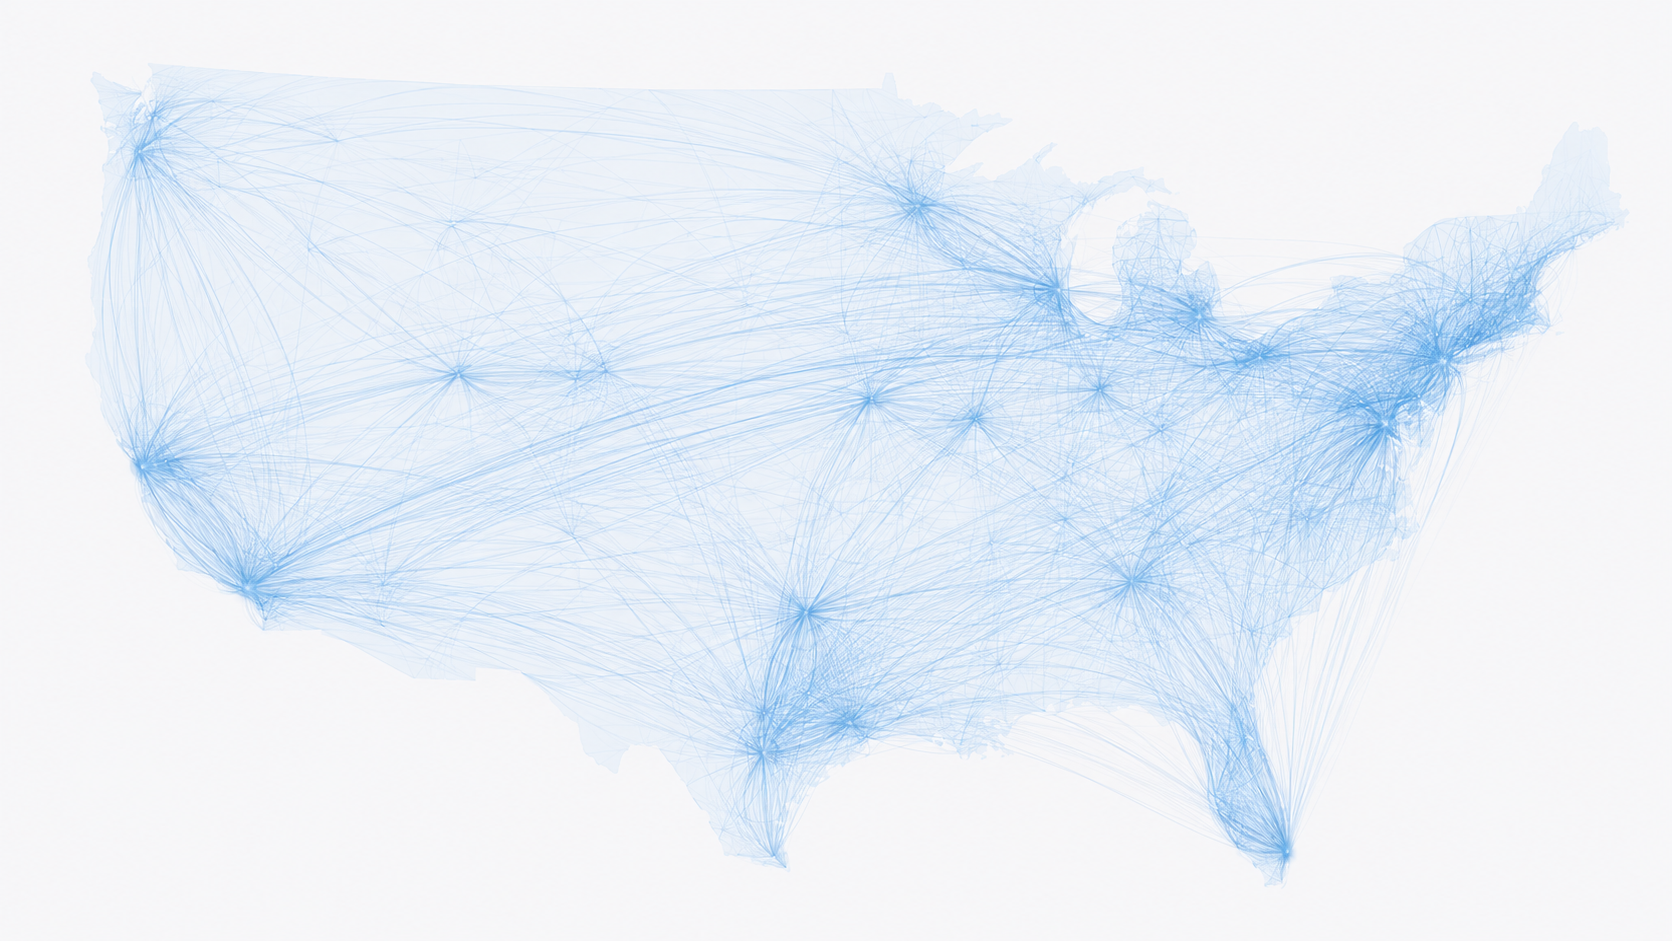
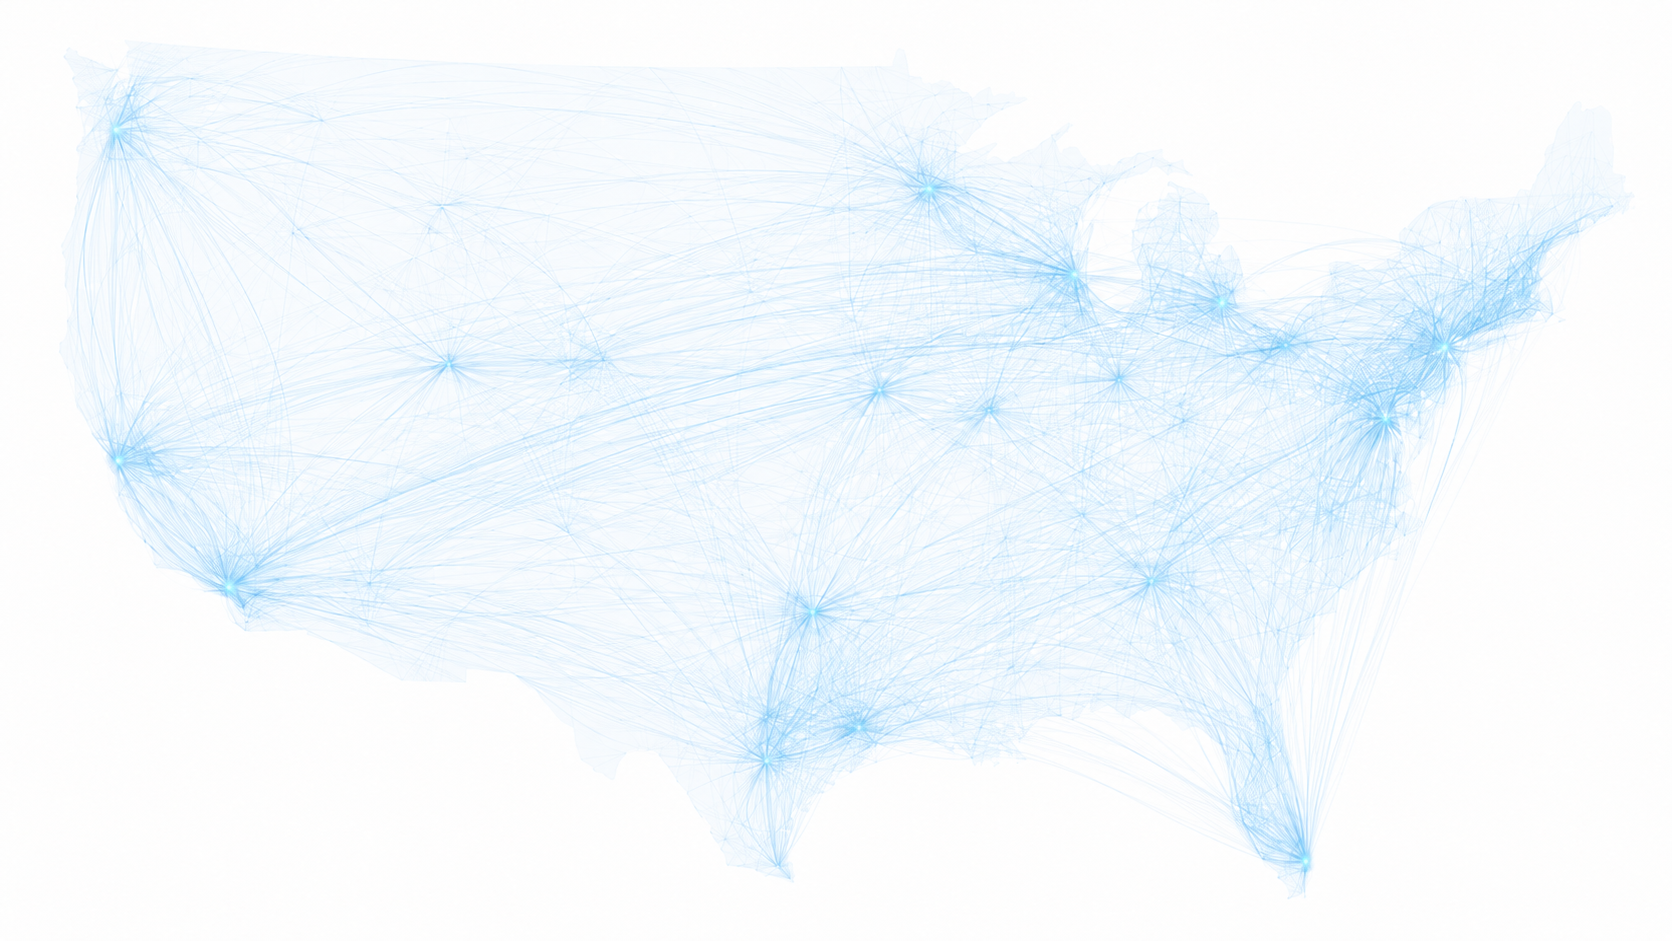
Update figures

diff --git a/_includes/social-share.html b/_includes/social-share.html
@@ -1,13 +1,1 @@
-{% include base_path %}
-
-<section class="page__share">
-  {% if site.data.ui-text[site.locale].share_on_label %}
-    <h4 class="page__share-title">{{ site.data.ui-text[site.locale].share_on_label | default: "Share on" }}</h4>
-  {% endif %}
-
-  <a href="https://twitter.com/intent/tweet?text={{ base_path }}{{ page.url }}" class="btn btn--twitter" title="{{ site.data.ui-text[site.locale].share_on_label | default: 'Share on' }} Twitter"><i class="fab fa-twitter" aria-hidden="true"></i><span> Twitter</span></a>
-
-  <a href="https://www.facebook.com/sharer/sharer.php?u={{ base_path }}{{ page.url }}" class="btn btn--facebook" title="{{ site.data.ui-text[site.locale].share_on_label | default: 'Share on' }} Facebook"><i class="fab fa-facebook" aria-hidden="true"></i><span> Facebook</span></a>
-
-  <a href="https://www.linkedin.com/shareArticle?mini=true&url={{ base_path }}{{ page.url }}" class="btn btn--linkedin" title="{{ site.data.ui-text[site.locale].share_on_label | default: 'Share on' }} LinkedIn"><i class="fab fa-linkedin" aria-hidden="true"></i><span> LinkedIn</span></a>
-</section>
+{% comment %}Social sharing buttons removed.{% endcomment %}

diff --git a/_layouts/single.html b/_layouts/single.html
@@ -64,8 +64,6 @@ layout: default
         {% include page__taxonomy.html %}
       </footer>
 
-      {% if page.share %}{% include social-share.html %}{% endif %}
-
       {% include post_pagination.html %}
     </div>
 

diff --git a/_layouts/talk.html b/_layouts/talk.html
@@ -52,8 +52,6 @@ layout: default
         {% include page__taxonomy.html %}
       </footer>
 
-      {% if page.share %}{% include social-share.html %}{% endif %}
-
       {% include post_pagination.html %}
     </div>
 
